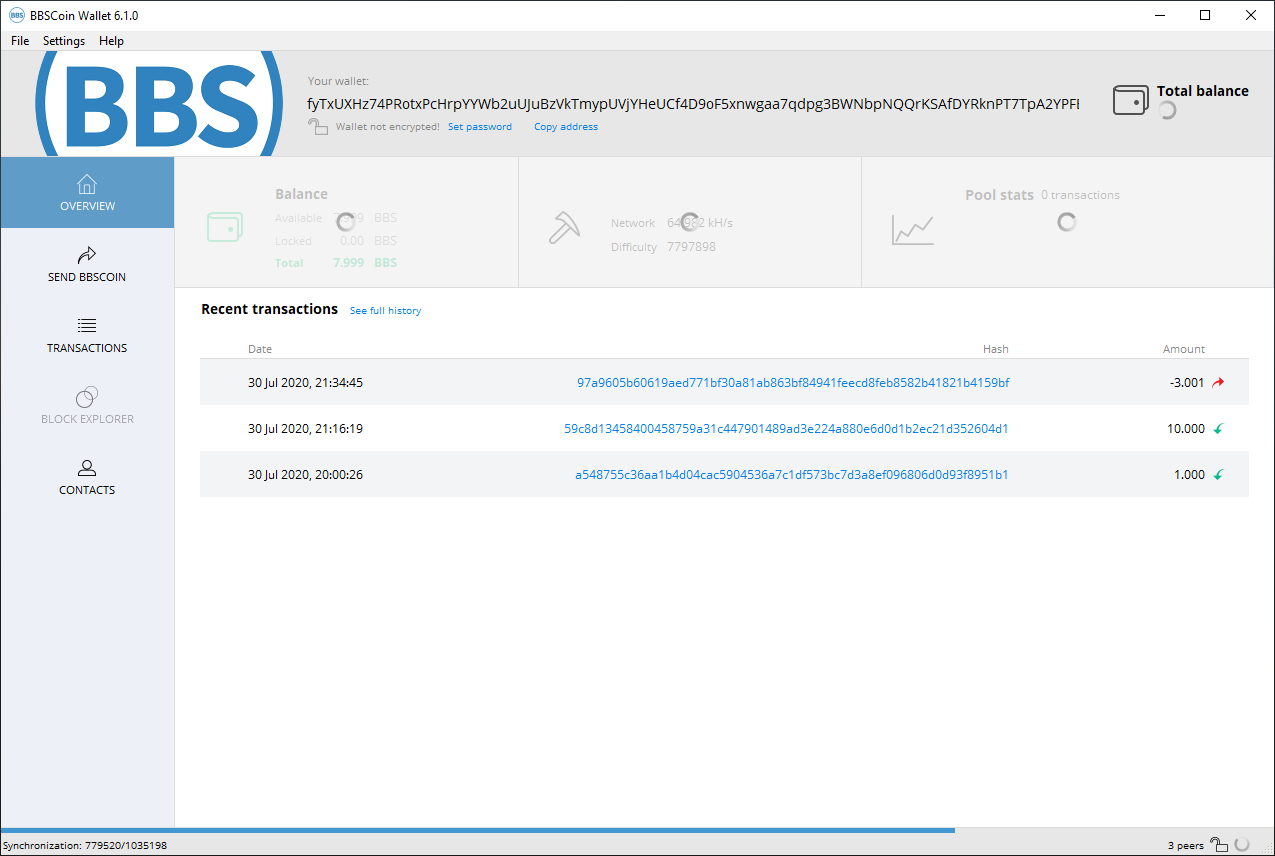
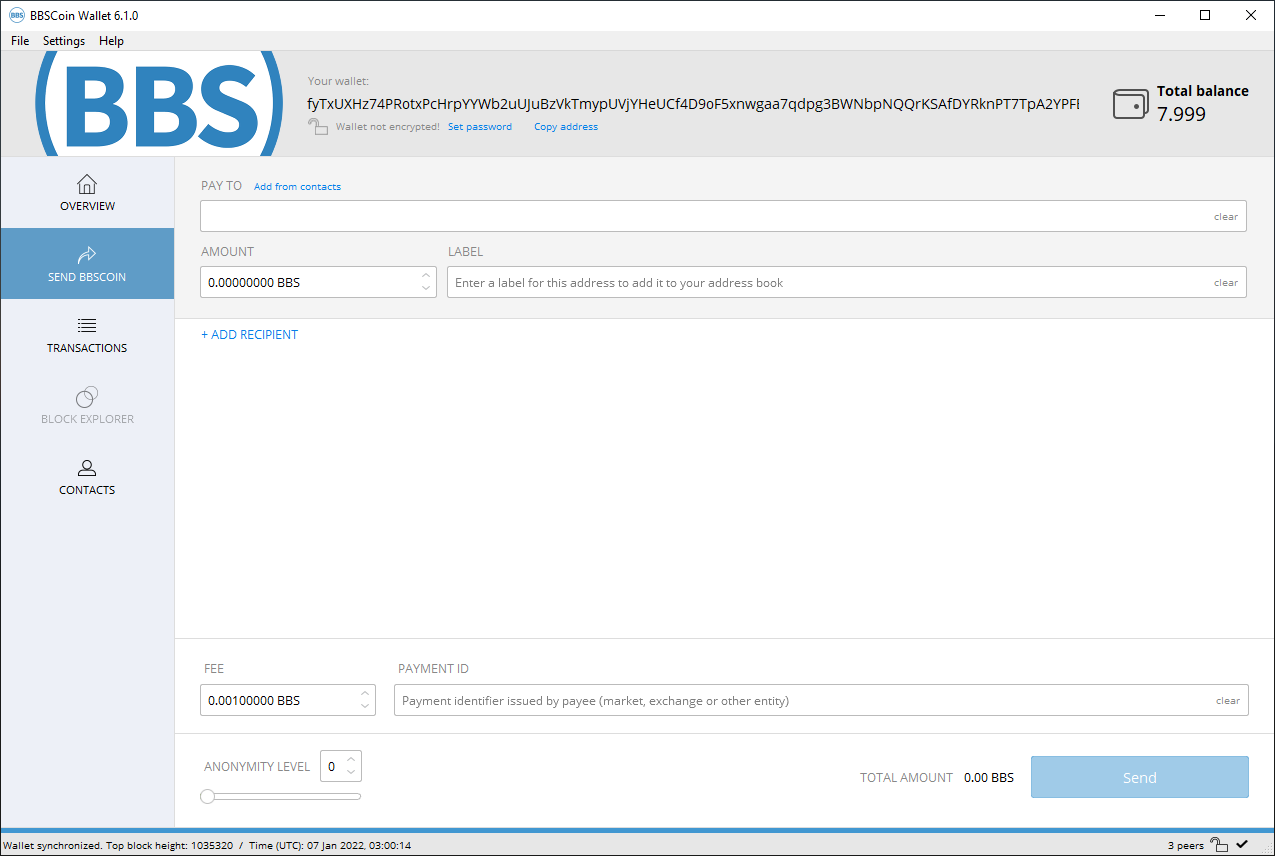
GitBook: [#21] No subject

diff --git a/wallets/wallet-gui/send-bbscoin.md b/wallets/wallet-gui/send-bbscoin.md
@@ -7,3 +7,5 @@ description: Window to transfer/send BBS to another address.
 On this window, you will use the "PAY TO" field to enter the address that was provided to you by the person or business (receiver) whom you will be sending BBS to. Then, enter the correct quantity of BBS you will be sending under the "AMOUNT" field, please be aware of where you place the dot for decimals. You may leave the "FEE" unchanged, unless you would like to donate more to the blockchain miners.&#x20;
 
 Optional: Use the "LABEL" field, if you would like to store the "PAY TO" address in your "CONTACTS". The "PAYMENT ID" doesn't need a value, unless you were explicitly told to add a specific one by the receiver.
+
+![](<../../.gitbook/assets/image (3).png>)

diff --git a/wallets/wallet-gui/synchronization.md b/wallets/wallet-gui/synchronization.md
@@ -4,7 +4,7 @@ You wallet should synchronize automatically to the main nodes. If after 15 minut
 
 On your BBSCoin GUI wallet, go to Settings on the menu, and select Preferences.
 
-![Settings menu view](<../../.gitbook/assets/image (1).png>)
+![Settings menu view](<../../.gitbook/assets/image (1) (1).png>)
 
 A windows like the one shown below will appear, please change the \[ Connection ] options to look like the one pictured. "Remote daemon" must be selected, with Host: node.bbscoin.click, and Port: 20204. Then please click on the \[ SAVE ] button. If the wallet doesn't start to synchronize after changing to "Remote daemon", you may need to File, Exit the program, wait like a minute, then restart the program.
 

diff --git a/wallets/wallet-gui/README.md b/wallets/wallet-gui/README.md
@@ -7,6 +7,6 @@ description: >-
 
 # Wallet GUI
 
-![BBSCoin GUI Wallet (test wallet)](<../../.gitbook/assets/image (3).png>)
+![BBSCoin GUI Wallet (test wallet)](<../../.gitbook/assets/image (3) (1).png>)
 
 The program should had created a random wallet for you, if it doesn't show a wallet address, please on the menu, go to "File", then "Create wallet". A popup will ask you where to save the wallet file, please select a location that is not shared nor has public settings.

diff --git a/wallets/wallet-gui/transactions.md b/wallets/wallet-gui/transactions.md
@@ -1,3 +1,5 @@
 # Transactions
 
 This windows will display a log of all you Send & Receive transactions. You may click on a transaction id to display transaction details.
+
+![](../../.gitbook/assets/image.png)

diff --git a/wallets/wallet-gui/contacts.md b/wallets/wallet-gui/contacts.md
@@ -1,3 +1,5 @@
 # Contacts
 
 This windows will display all your saved contacts/addresses. Click on a contact to create a Send transaction.
+
+![](<../../.gitbook/assets/image (4).png>)
